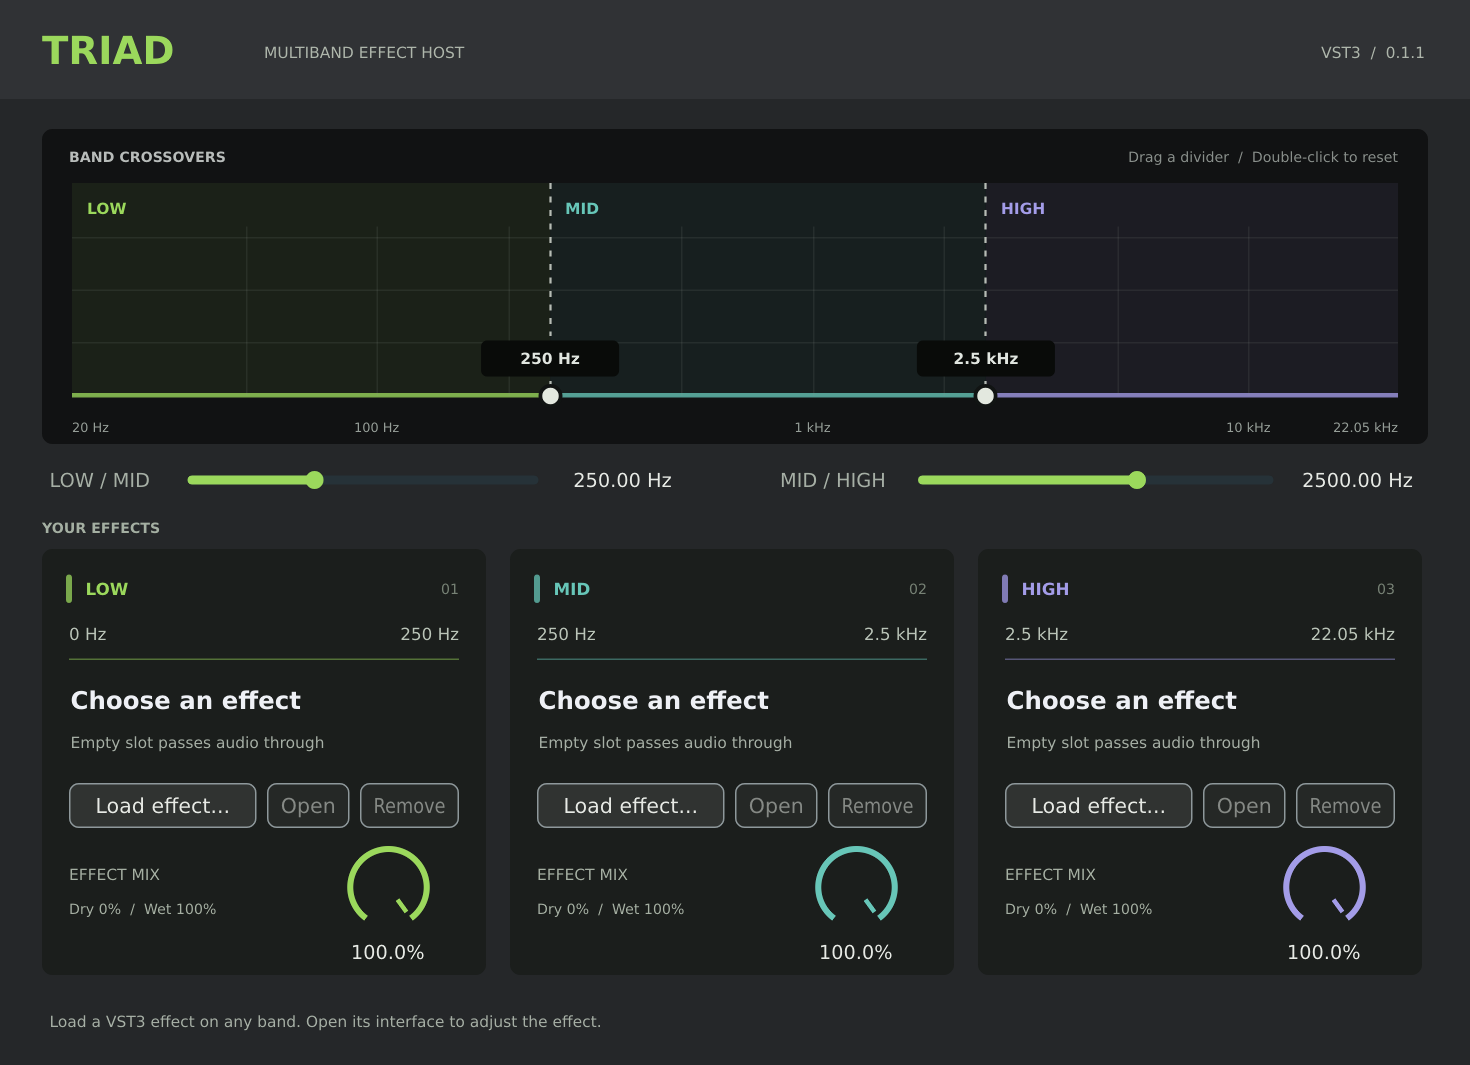
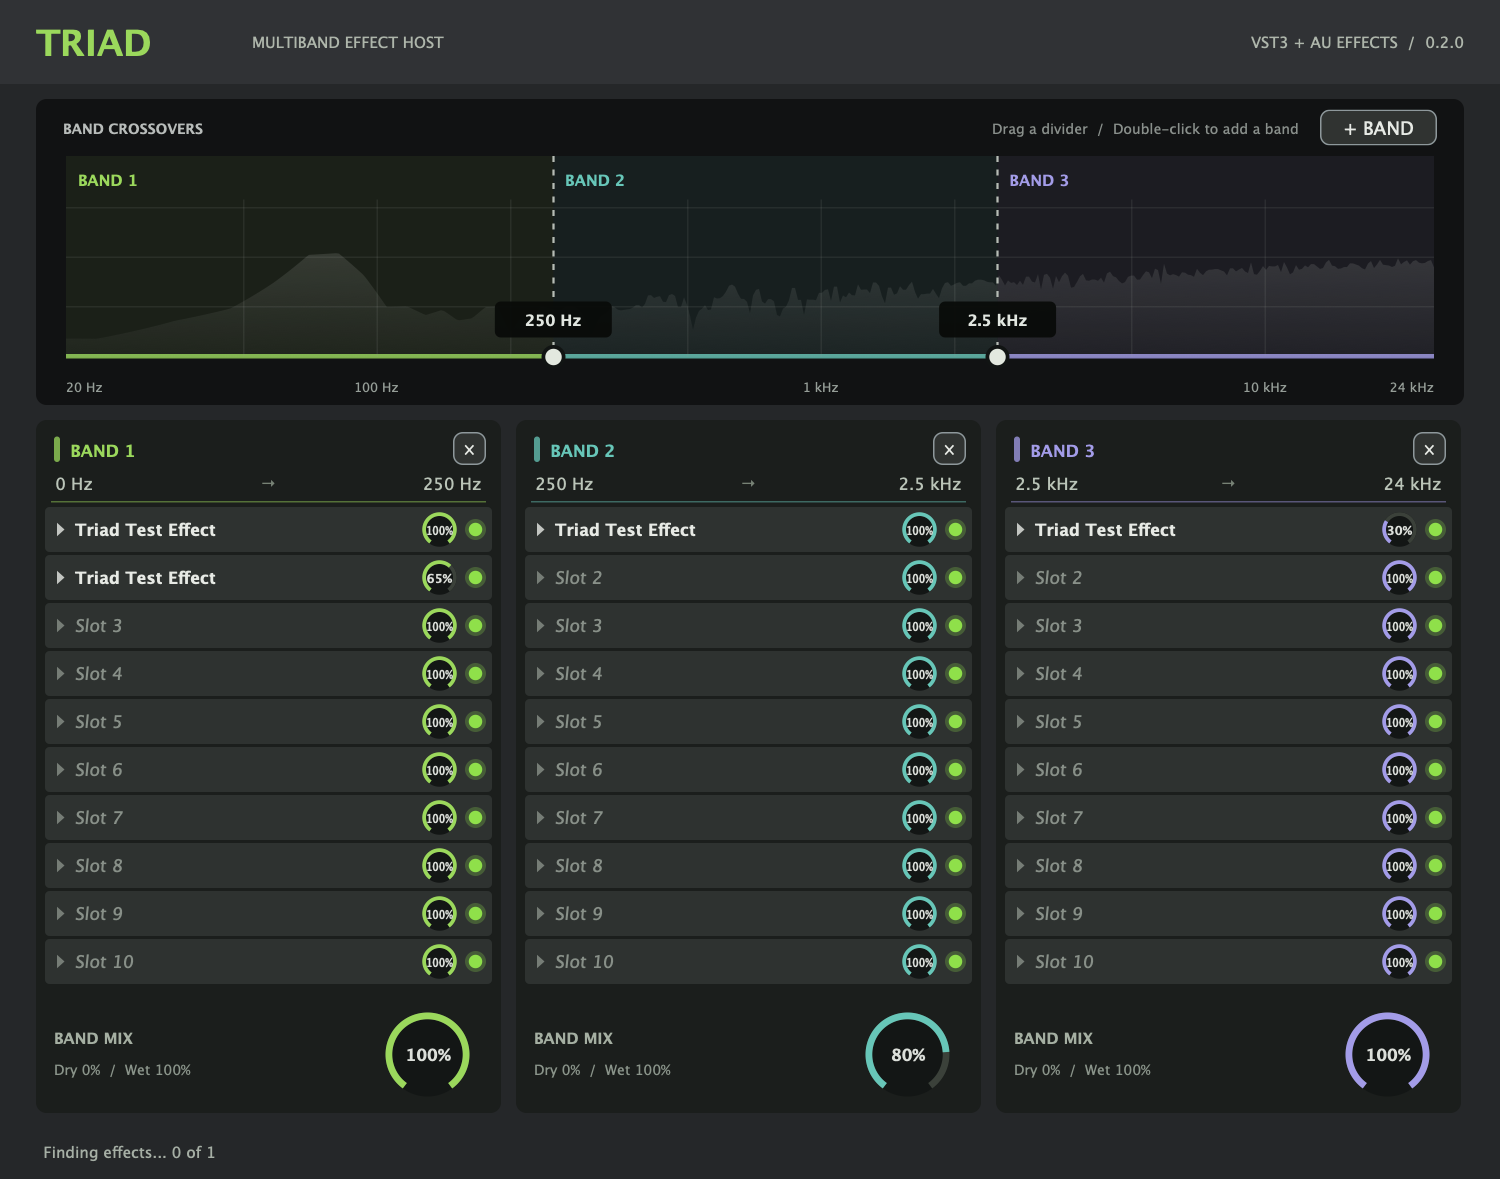
Mac test results and 0.2.0 interface snapshots [skip ci]
Claude-Session: https://claude.ai/code/session_01Tek1NN8SMheak5Z3vXff3g

diff --git a/VALIDATION.md b/VALIDATION.md
@@ -2,7 +2,7 @@
 
 ## Triad 0.2.0 on macOS — 2026-10-15
 
-GitHub Actions `macos-14` runner (Apple M1, virtualised), macOS 14.8, Xcode 15.4, CMake 4.4, JUCE 8.0.12; `Build-Mac.command` run unmodified (commit `7b52a14`).
+GitHub Actions `macos-14` runner (Apple M1, virtualised), macOS 14.8, Xcode 15.4, CMake 4.4, JUCE 8.0.12; `Build-Mac.command` run unmodified (commit `cffb2ab`).
 
 | Check | Result |
 | --- | --- |
